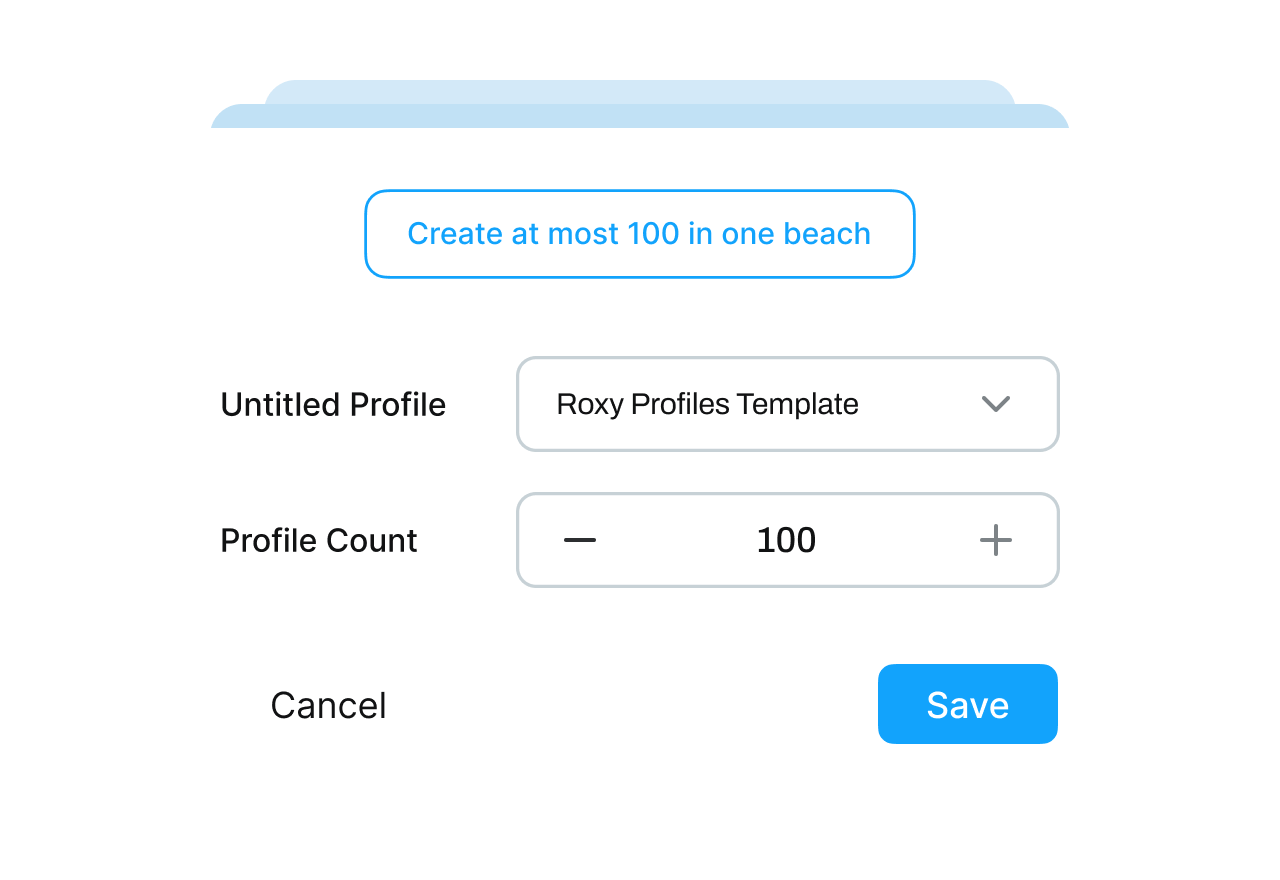
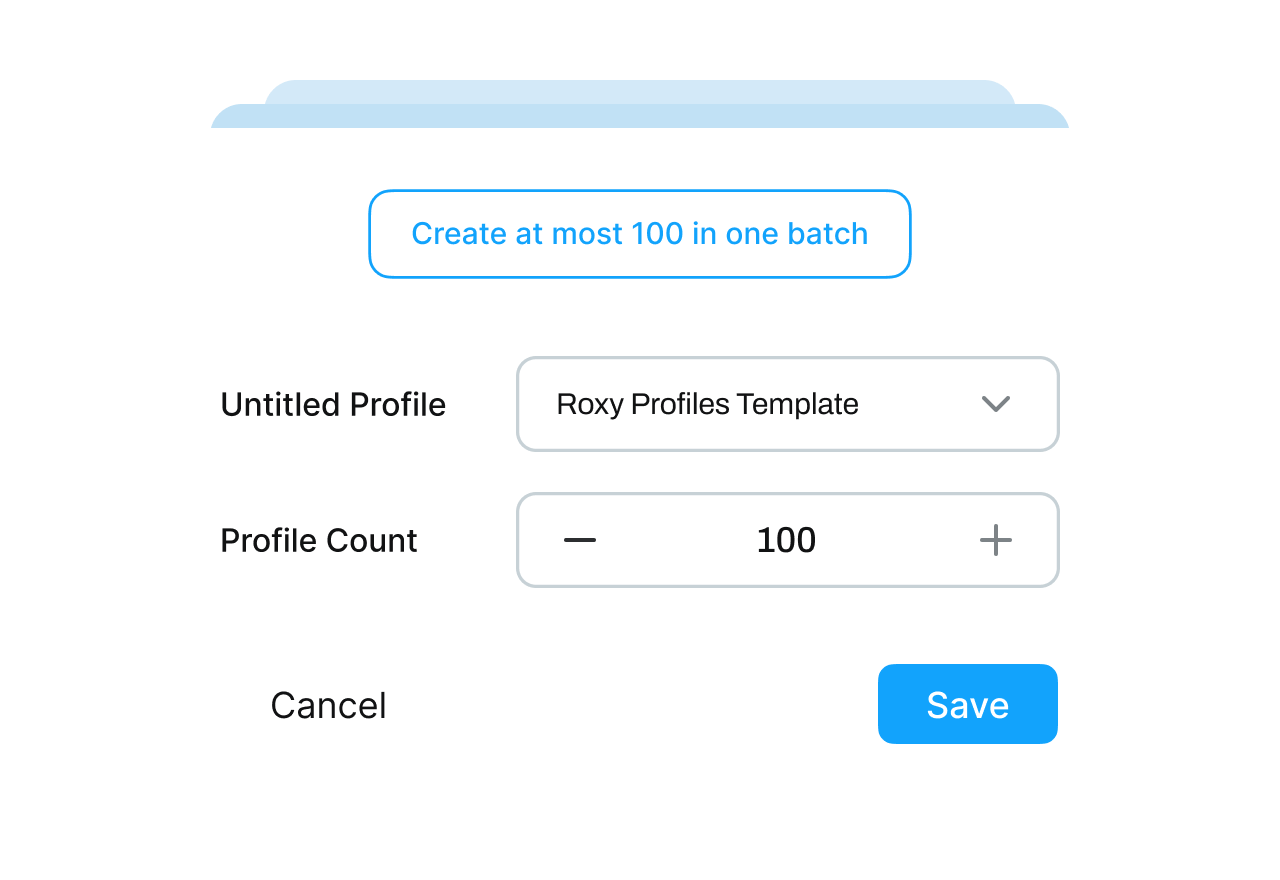
update image

Changed region(s): [[0.2812, 0.2148, 0.7188, 0.3068]]

diff --git a/components/rx-icon/src/svg-icon-types.ts b/components/rx-icon/src/svg-icon-types.ts
@@ -1,32 +1,44 @@
 
   /** 此文件自动生成，请勿修改！所有可用的 svg name */
   export type SvgNames = 'base/rx_ic_logo'
-  | 'base/rx_ic_chrome2'
   | 'base/rx_ic_chevron_down'
   | 'base/rx_ic_world'
   | 'base/rx_ic_menu'
   | 'menu/privacy-defense'
+  | 'menu/social-networks'
   | 'menu/affiliate-market'
   | 'menu/web-scraping'
   | 'menu/e-commerce'
-  | 'menu/social-networks'
   | 'menu/crypto-gains'
   | 'menu/traffic-trade'
-  | 'menu/profile-template'
   | 'menu/ad-strategy'
-  | 'menu/proxy-panel'
+  | 'menu/profile-template'
   | 'menu/team-space'
   | 'menu/account-hub'
+  | 'menu/proxy-panel'
   | 'menu/window-sync'
   | 'menu/api-flow'
-  | 'base/rx_ic_headphone_2'
   | 'base/rx_ic_download'
+  | 'base/rx_ic_headphone_2'
+  | 'base/rx_ic_chrome2'
   | 'base/rx_ic_roxy_chrome'
+  | 'country/rx_flag_uk'
   | 'platforms/rx_os_windows'
   | 'base/rx_ic_2fa'
-  | 'country/rx_flag_uk'
-  | 'base/rx_ic_stack'
   | 'base/rx_ic_email'
+  | 'base/rx_ic_stack'
   | 'base/rx_ic_plus'
   | 'base/rx_ic_back_top'
   | 'base/rx_ic_chrome'
+  | 'feat-profile-template/diverse-sync-operations'
+  | 'feat-profile-template/shortcuts-customization'
+  | 'feat-profile-template/flexible-window-layout'
+  | 'feat-profile-template/reasons-1'
+  | 'feat-profile-template/reasons-2'
+  | 'feat-profile-template/reasons-3'
+  | 'feat-profile-template/reasons-4'
+  | 'feat-profile-template/reasons-6'
+  | 'feat-profile-template/reasons-5'
+  | 'feat-profile-template/batch-import'
+  | 'feat-profile-template/profile-template'
+  | 'feat-profile-template/quick-setup'

diff --git a/components/page-download/index.vue b/components/page-download/index.vue
@@ -117,7 +117,7 @@ const downloadVersion = computed(() => {
     },
     {
       latestVersion: $t('最新版本：{version}', { version: info.macVersion }),
-      releaseDate: $t('发布日期：{date}', { date: info.macReleaseTime.replace(/\//g, '_') }),
+      releaseDate: $t('发布日期：{date}', { date: info.macReleaseTime }),
       download: [
         {
           fileName: `RoxyBrowser_apple_${info.macVersion}_${info.macReleaseTime.replace(/\//g, '_')}${downloadCode.value}.pkg`,